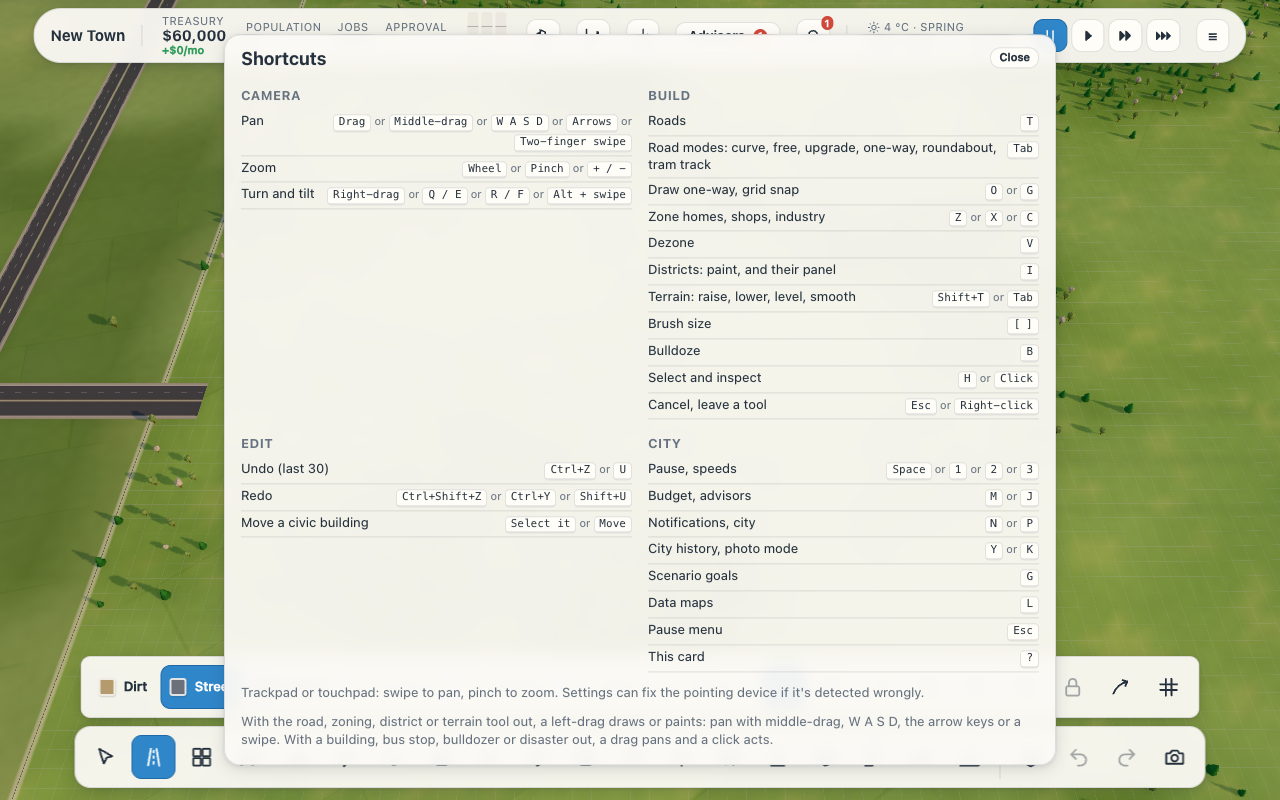
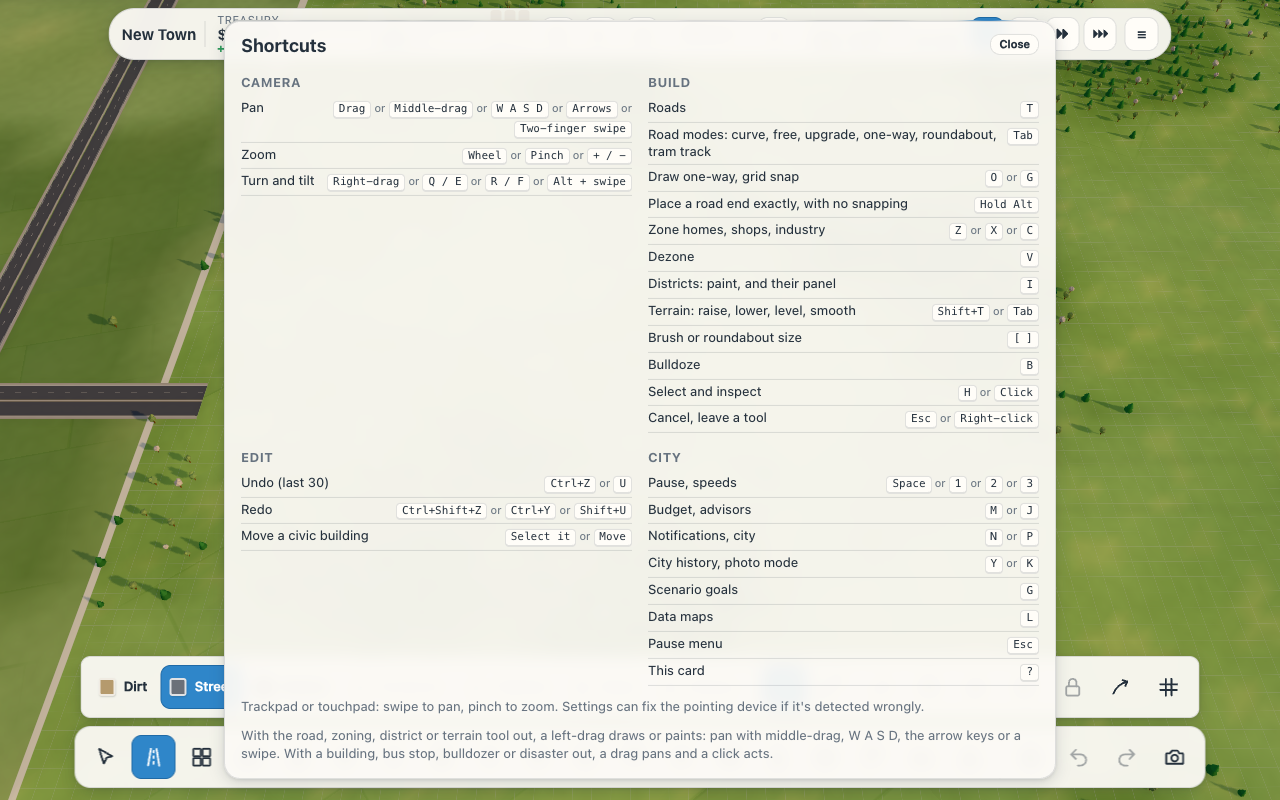
M30: local relay (rooms and peer-to-peer signalling over WebSockets, optional file store), a game year in step through it

diff --git a/relay/local.ts b/relay/local.ts
@@ -1,0 +1,137 @@
+/**
+ * The local relay (M30): the room protocol on this computer, for development and tests with no
+ * internet. Speaks exactly what the online rooms speak:
+ *
+ *   ws://localhost:8787/room/<CODE>    a room (the same Room class a Durable Object runs)
+ *   ws://localhost:8787/signal/<CODE>  signalling for peer-to-peer (offers, answers, candidates)
+ *
+ * `npx tsx relay/local.ts [port] [--data dir]`: with --data, rooms are kept in files and survive a
+ * restart, as online rooms survive everyone leaving.
+ */
+import { createServer, type Server } from 'node:http';
+import { mkdirSync, readFileSync, writeFileSync, existsSync } from 'node:fs';
+import { join } from 'node:path';
+import { WebSocketServer, type WebSocket } from 'ws';
+import { Room, MemoryStore, type Conn, type RoomMeta, type StoredSnapshot } from './room';
+import { CODE_ALPHABET, CODE_LENGTH } from './protocol';
+import { Signal } from './signal';
+import type { Stamped } from '../src/sim/lockstep';
+
+/** A store kept in one JSON file per room (`--data`). */
+class FileStore extends MemoryStore {
+  constructor(private readonly file: string) {
+    super();
+    if (existsSync(file)) {
+      const d = JSON.parse(readFileSync(file, 'utf8')) as {
+        meta: RoomMeta | null;
+        events: Stamped[];
+        snapshot: StoredSnapshot | null;
+      };
+      this.meta = d.meta;
+      this.events = d.events;
+      this.snapshot = d.snapshot;
+    }
+  }
+  private flush() {
+    writeFileSync(
+      this.file,
+      JSON.stringify({ meta: this.meta, events: this.events, snapshot: this.snapshot }),
+    );
+  }
+  override saveMeta(meta: RoomMeta) {
+    super.saveMeta(meta);
+    this.flush();
+  }
+  override appendEvent(e: Stamped) {
+    super.appendEvent(e);
+    this.flush();
+  }
+  override saveSnapshot(s: StoredSnapshot) {
+    super.saveSnapshot(s);
+    this.flush();
+  }
+}
+
+const CODE = new RegExp(`^/(room|signal)/([${CODE_ALPHABET}]{${CODE_LENGTH}})$`);
+
+export interface LocalRelay {
+  server: Server;
+  port: number;
+  rooms: Map<string, Room>;
+  close(): Promise<void>;
+}
+
+export function startRelay(port = 8787, dataDir: string | null = null): Promise<LocalRelay> {
+  const rooms = new Map<string, Room>();
+  const signals = new Map<string, Signal>();
+  const server = createServer((req, res) => {
+    // A health check for scripts, and nothing else over plain HTTP.
+    res.writeHead(req.url === '/health' ? 200 : 404, {
+      'content-type': 'text/plain',
+      'access-control-allow-origin': '*',
+    });
+    res.end(req.url === '/health' ? 'citybloom relay' : 'not found');
+  });
+  const wss = new WebSocketServer({ server, maxPayload: 1 << 20 });
+  if (dataDir) mkdirSync(dataDir, { recursive: true });
+  const roomFor = (code: string) => {
+    let r = rooms.get(code);
+    if (!r) {
+      const store = dataDir ? new FileStore(join(dataDir, `${code}.json`)) : new MemoryStore();
+      r = new Room(code, 'local', store, { now: () => Date.now(), random: Math.random });
+      rooms.set(code, r);
+    }
+    return r;
+  };
+  wss.on('connection', (ws: WebSocket, req) => {
+    const m = CODE.exec(new URL(req.url ?? '/', 'http://x').pathname);
+    if (!m) return ws.close(4004, 'not found');
+    const [, kind, code] = m;
+    if (kind === 'signal') {
+      let sig = signals.get(code!);
+      if (!sig) signals.set(code!, (sig = new Signal()));
+      const peer = sig.open((t) => ws.send(t));
+      ws.on('message', (data) => sig.message(peer, String(data)));
+      ws.on('close', () => sig.closed(peer));
+      return;
+    }
+    const room = roomFor(code!);
+    const conn: Conn = {
+      send: (msg) => {
+        if (ws.readyState === ws.OPEN) ws.send(JSON.stringify(msg));
+      },
+      close: (c, reason) => ws.close(c, reason),
+    };
+    room.open(conn);
+    ws.on('message', (data) => room.message(conn, String(data)));
+    ws.on('close', () => room.closed(conn));
+  });
+  return new Promise((resolve) => {
+    server.listen(port, () => {
+      const addr = server.address();
+      const actual = typeof addr === 'object' && addr ? addr.port : port;
+      resolve({
+        server,
+        port: actual,
+        rooms,
+        close: () =>
+          new Promise<void>((r) => {
+            for (const c of wss.clients) c.terminate();
+            wss.close();
+            server.close(() => r());
+          }),
+      });
+    });
+  });
+}
+
+if (process.argv[1]?.endsWith('local.ts')) {
+  const args = process.argv.slice(2);
+  const dataAt = args.indexOf('--data');
+  const port = Number(args.find((a, i) => /^\d+$/.test(a) && i !== dataAt + 1) ?? 8787);
+  void startRelay(port, dataAt >= 0 ? args[dataAt + 1]! : null).then((r) =>
+    console.log(
+      `Citybloom relay on ws://localhost:${r.port} (rooms at /room/CODE, signalling at /signal/CODE)`,
+    ),
+  );
+}

diff --git a/relay/tests/local.test.ts b/relay/tests/local.test.ts
@@ -1,0 +1,70 @@
+import { afterAll, beforeAll, describe, expect, it } from 'vitest';
+import { startRelay, type LocalRelay } from '../local';
+import { webSocketLink } from '../../src/net/link';
+import { Sim } from '../../src/sim/sim';
+import { simDesync } from '../../src/sim/sync';
+import { TICKS_PER_MONTH, TICKS_PER_YEAR } from '../../src/sim/time';
+import { buildTown, serveTown } from '../../tests/helpers';
+import { player, settle, stopAll, until, type TestPlayer } from './harness';
+
+/**
+ * Through the local relay's real sockets (M30): two headless players build one city in step for a
+ * game year, with the network budget counted on the way.
+ */
+let relay: LocalRelay;
+beforeAll(async () => {
+  relay = await startRelay(0);
+});
+afterAll(async () => {
+  await relay.close();
+});
+
+describe('the local relay (M30)', () => {
+  it('two players stay in step for a game year, building as they go', async () => {
+    const url = `ws://localhost:${relay.port}/room/YEARAB`;
+    const connect = () => webSocketLink(url);
+    const sim = Sim.create({ seed: 'year', preset: 'river', cityName: 'Yearling' });
+    buildTown(sim, { zone: false });
+    serveTown(sim);
+    const players: TestPlayer[] = [];
+    try {
+      const ada = player('Ada', connect, sim, { create: { cityName: 'Yearling' } });
+      players.push(ada);
+      await ada.session.start();
+      const sam = player('Sam', connect, null);
+      players.push(sam);
+      await sam.session.start();
+      const start = sim.tick;
+      ada.session.setSpeed(3);
+      const n = sim.state.net.nodes.get(sim.state.highway.connect)!;
+      // Each month one of them zones another strip; checksums are compared every game hour.
+      for (let m = 0; m < 12; m++) {
+        const who = m % 2 ? sam : ada;
+        const dz = [-90, 20, -140, 90, 110, -60][m % 6]!;
+        const zone = (['R', 'C', 'R', 'R', 'I', 'C'] as const)[m % 6];
+        await who.session.command({
+          type: 'zone',
+          zone,
+          area: {
+            kind: 'brush',
+            points: [
+              { x: n.x + 20, z: n.z + dz },
+              { x: n.x + 460, z: n.z + dz },
+            ],
+            radius: 25,
+          },
+        });
+        await until(() => ada.driver.tick >= start + (m + 1) * TICKS_PER_MONTH, 120_000, `month ${m + 1}`);
+      }
+      await until(() => ada.driver.tick >= start + TICKS_PER_YEAR, 120_000, 'a year');
+      await settle(ada, players);
+      expect(simDesync(ada.driver.sim, sam.driver.sim).text).toBe('The cities agree');
+      expect(sam.notices.filter((x) => /out of step/.test(x.text))).toEqual([]);
+      expect(ada.driver.sim.state.totals.population).toBeGreaterThan(300);
+      const per = (p: TestPlayer) => ({ messages: p.session.sent.messages, bytes: p.session.sent.bytes });
+      console.log('[net] a game year at 1,200 ticks/s:', JSON.stringify({ ada: per(ada), sam: per(sam) }));
+    } finally {
+      stopAll(players);
+    }
+  }, 300_000);
+});

diff --git a/relay/signal.ts b/relay/signal.ts
@@ -1,0 +1,67 @@
+/**
+ * Signalling for peer-to-peer rooms (M30): the host's browser and its guests swap WebRTC offers,
+ * answers and candidates here, then talk directly. Holds nothing once they've gone; the city never
+ * passes through it. Used by the local relay and the online Worker alike.
+ *
+ *   → { t: 'host' }                       I'm the room's host
+ *   → { t: 'to', to: id, data }           pass `data` (a string) to another peer
+ *   ← { t: 'you', id, host }              your id here, and the host's (0 if none yet)
+ *   ← { t: 'host', id }                   the host has arrived
+ *   ← { t: 'from', from: id, data }
+ *   ← { t: 'gone', id }
+ */
+export interface SignalPeer {
+  id: number;
+  send: (text: string) => void;
+}
+
+const MAX_PEERS = 16;
+const MAX_DATA = 16_000;
+
+export class Signal {
+  private peers = new Map<number, SignalPeer>();
+  private next = 1;
+  private host = 0;
+
+  open(send: (text: string) => void): SignalPeer {
+    const p = { id: this.next++, send };
+    if (this.peers.size >= MAX_PEERS) {
+      send(JSON.stringify({ t: 'error', text: 'Too many players are connecting at once' }));
+      return p;
+    }
+    this.peers.set(p.id, p);
+    send(JSON.stringify({ t: 'you', id: p.id, host: this.host }));
+    return p;
+  }
+
+  message(p: SignalPeer, raw: string): void {
+    if (!this.peers.has(p.id) || raw.length > MAX_DATA + 200) return;
+    let m: { t?: unknown; to?: unknown; data?: unknown };
+    try {
+      m = JSON.parse(raw) as typeof m;
+    } catch {
+      return;
+    }
+    if (m.t === 'host' && !this.host) {
+      this.host = p.id;
+      for (const q of this.peers.values()) if (q !== p) q.send(JSON.stringify({ t: 'host', id: p.id }));
+    } else if (
+      m.t === 'to' &&
+      typeof m.to === 'number' &&
+      typeof m.data === 'string' &&
+      m.data.length <= MAX_DATA
+    ) {
+      this.peers.get(m.to)?.send(JSON.stringify({ t: 'from', from: p.id, data: m.data }));
+    }
+  }
+
+  closed(p: SignalPeer): void {
+    if (!this.peers.delete(p.id)) return;
+    if (this.host === p.id) this.host = 0;
+    for (const q of this.peers.values()) q.send(JSON.stringify({ t: 'gone', id: p.id }));
+  }
+
+  get size(): number {
+    return this.peers.size;
+  }
+}
